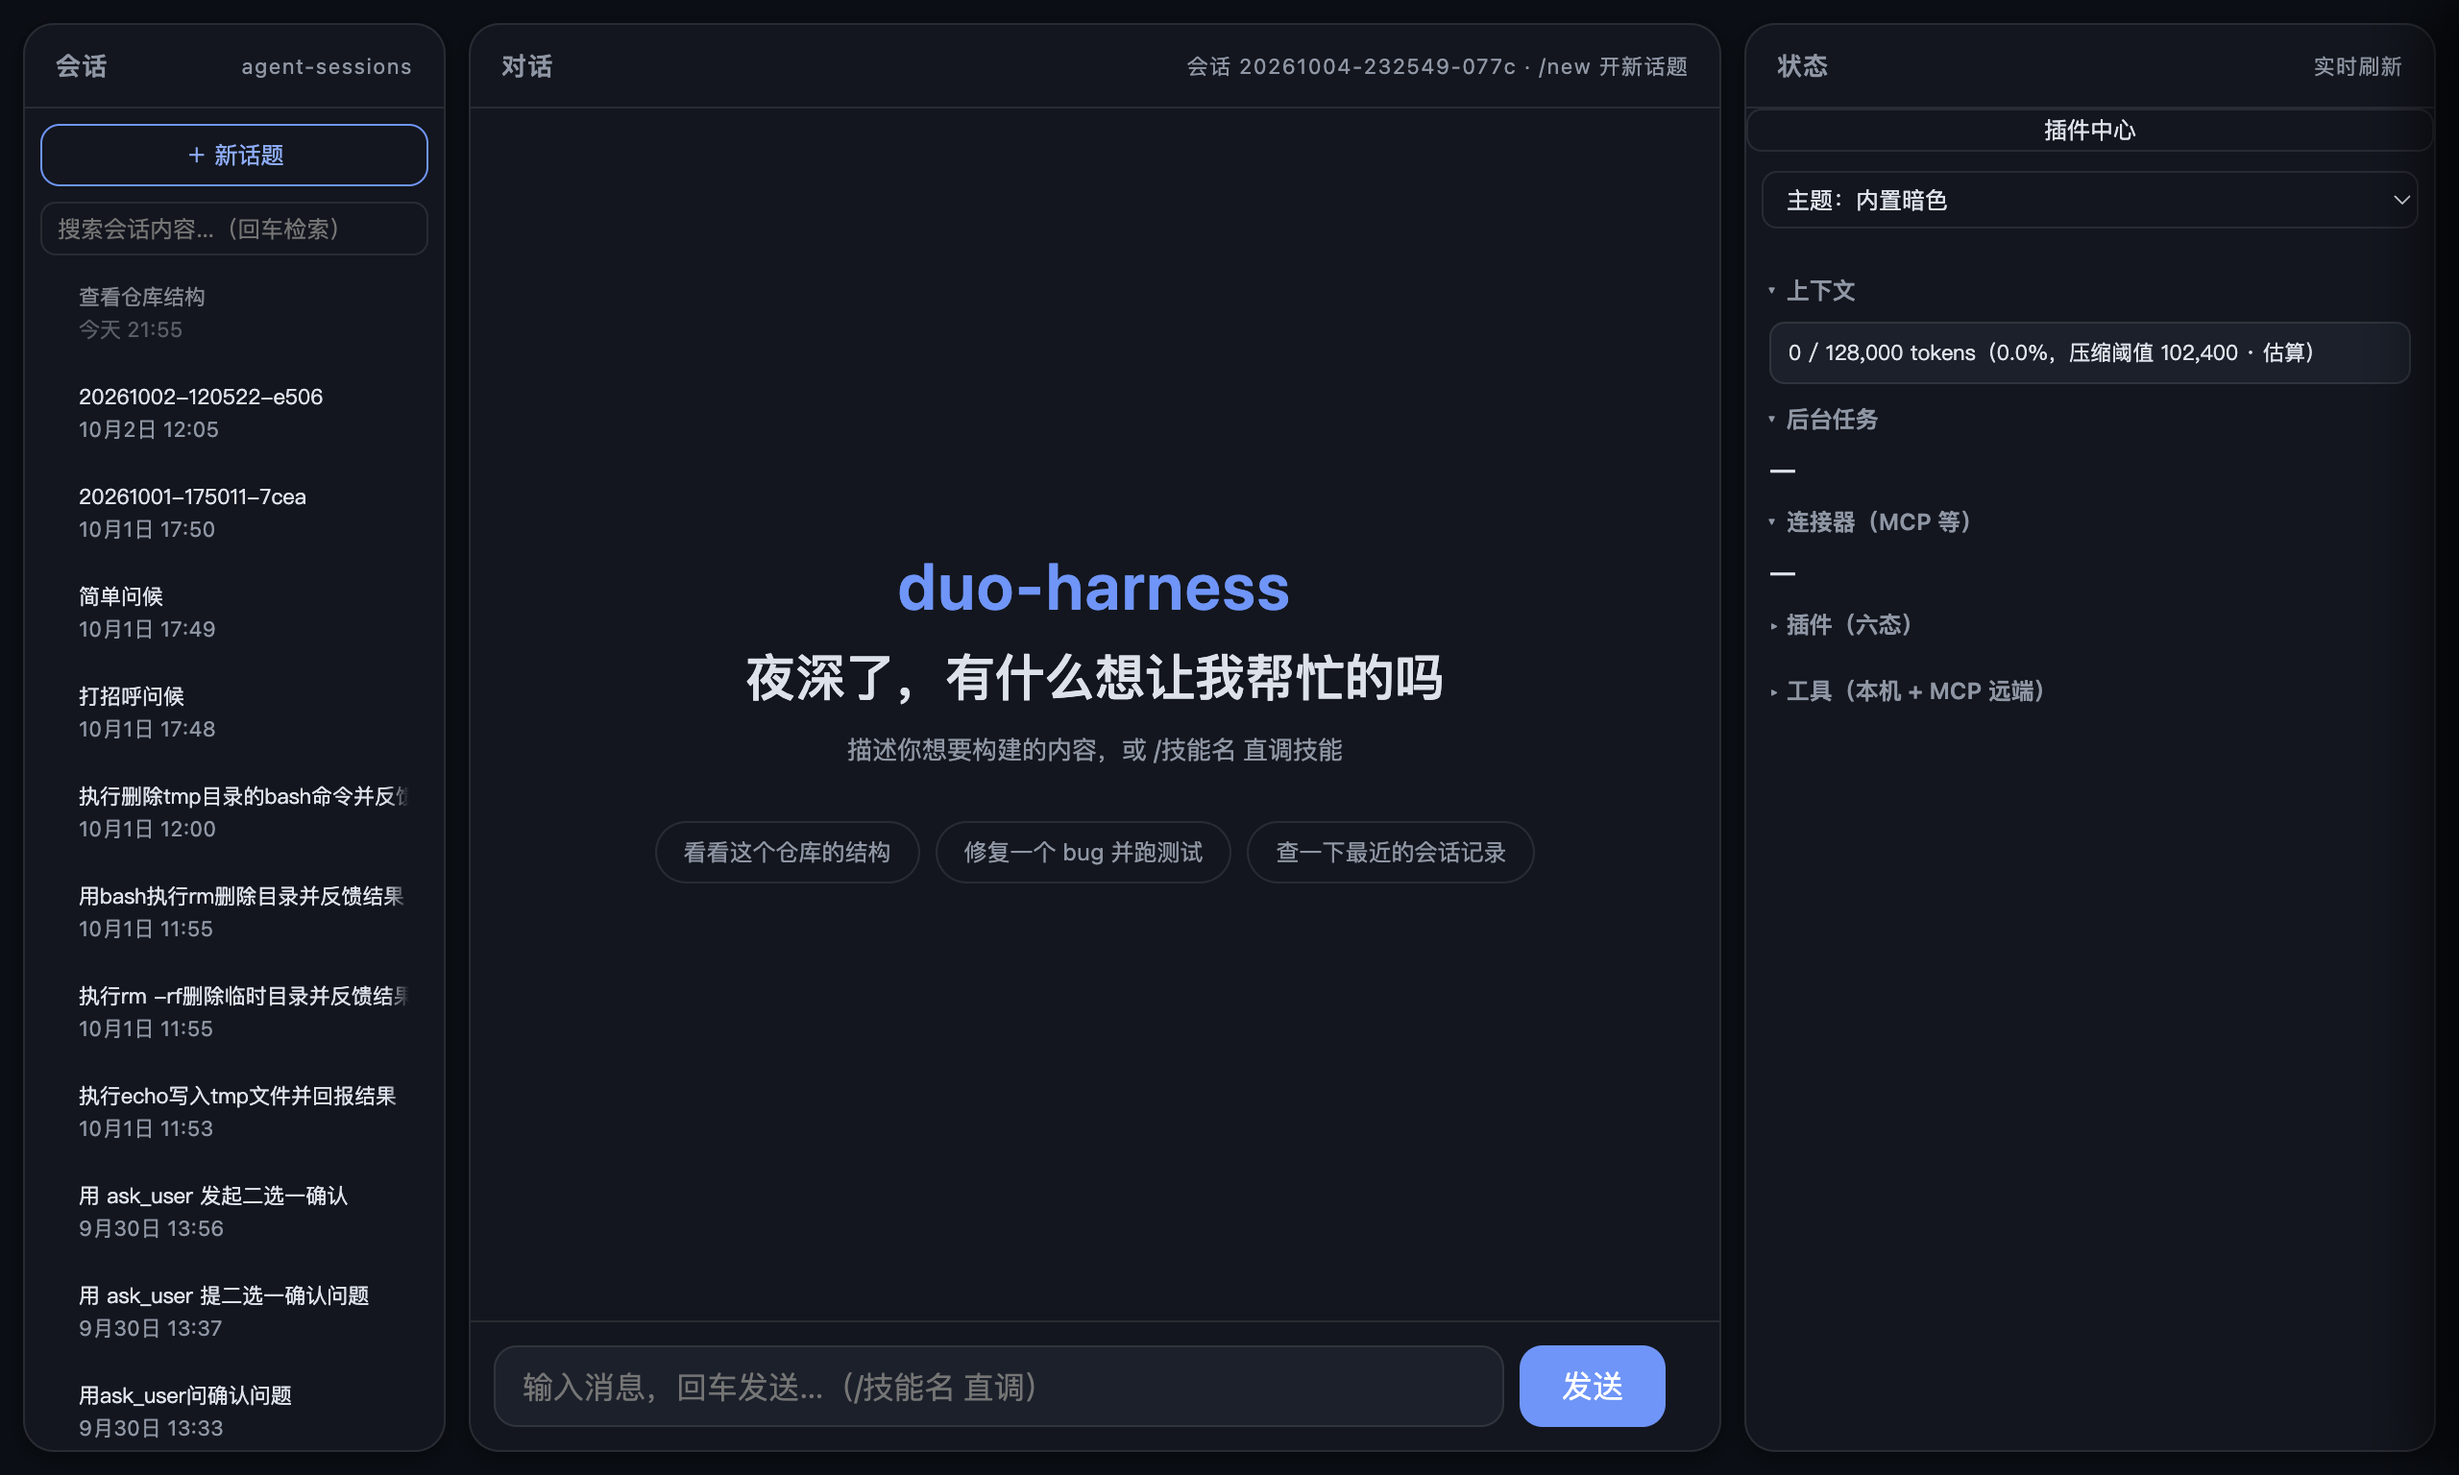
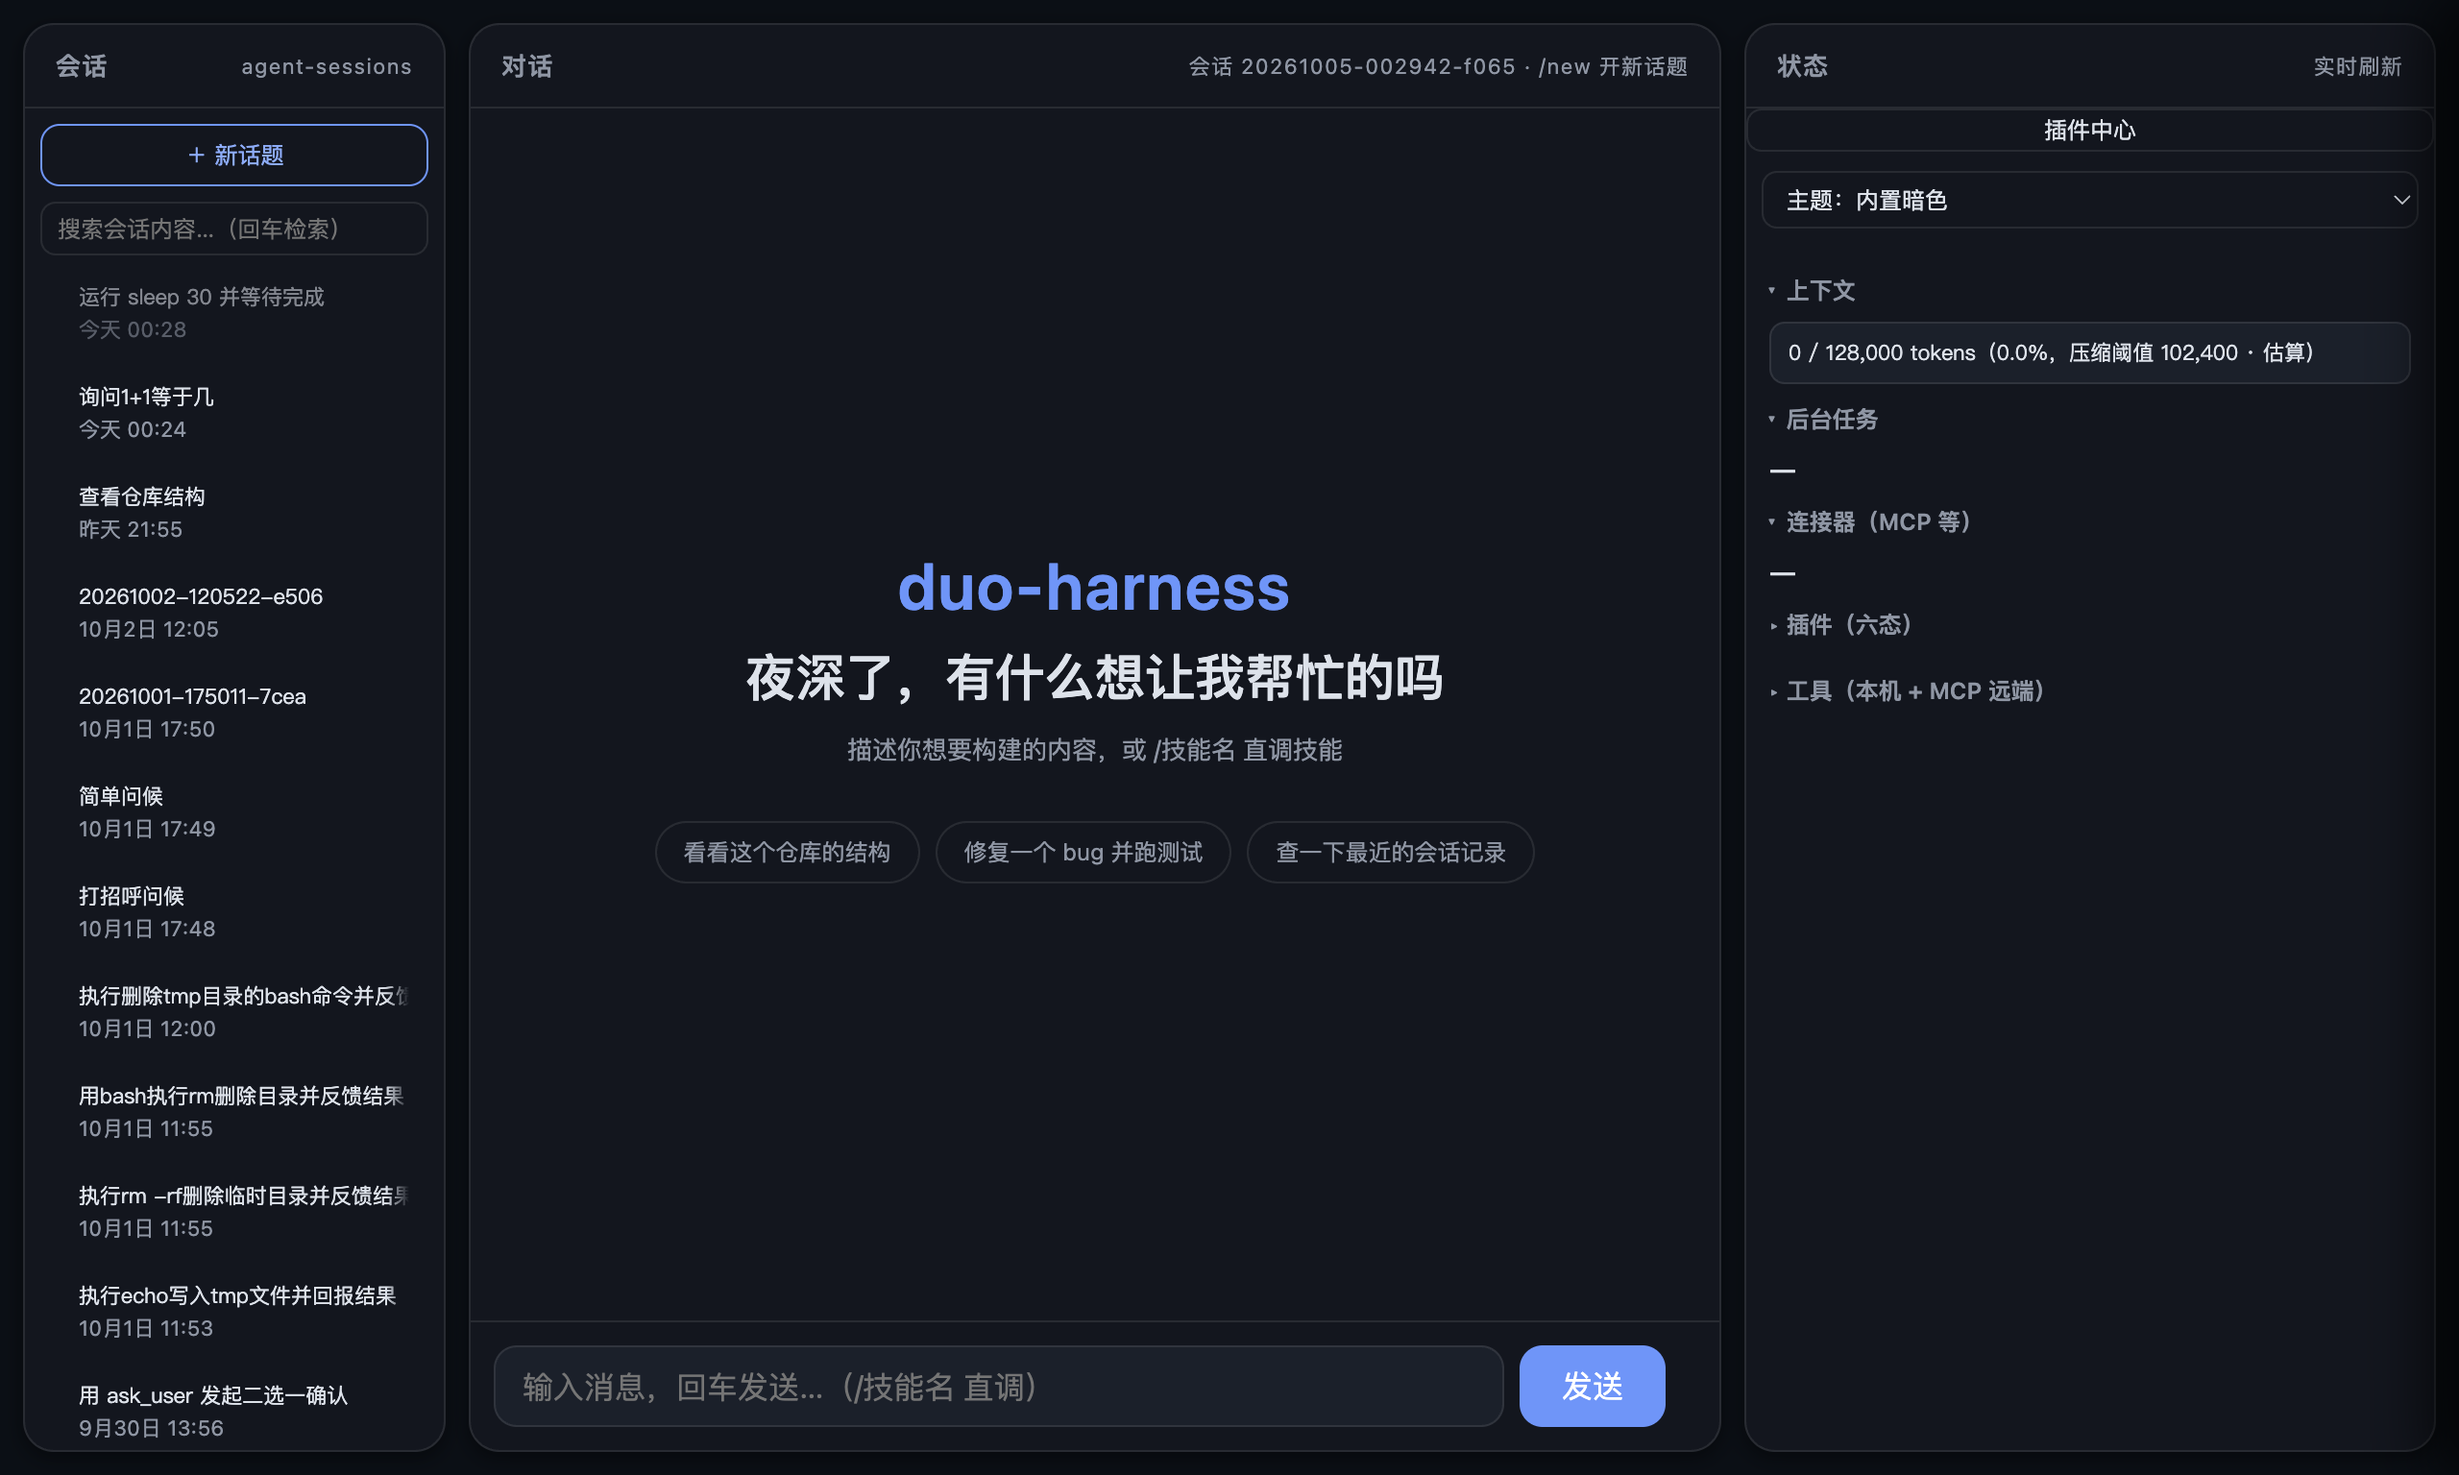
docs(m37-w08): 验收件补用户代测会话证据（T1 基线/T2 busy 在飞/T3 长任务拦截/T4 冒烟复跑）

diff --git a/desktop/src/main.ts b/desktop/src/main.ts
@@ -448,7 +448,9 @@ async function confirmAndQuit(): Promise<void> {
       if (!backend) {
         return false;
       }
-      return fetchTurnActive(buildStatusUrl(backend.url));
+      const busy = await fetchTurnActive(buildStatusUrl(backend.url));
+      console.log(`duo:shell quit-probe turnActive=${busy}`); // 退出编排决策留痕（T3 排障教训）
+      return busy;
     },
     confirmBusyQuit: () =>
       Promise.resolve(

diff --git a/.scratch/m37-desktop/acceptance.md b/.scratch/m37-desktop/acceptance.md
@@ -2,10 +2,16 @@
 
 > done 判据 = 用户手动运行本验收件确认通过（duo-acceptance 流程）。作者自跑证据在案（见「作者自跑记录」）；标 **[真人]** 的条目为 mac 交互面/LLM 依赖项，程序化不可达，需你亲手走。
 
-## 一、作者自跑证据（已留档，2026-10-04）
+## 一、作者自跑证据（已留档，2026-10-04 首跑 + 2026-10-05 用户代测会话）
 
 - **dev 态全链冒烟**（`npm run smoke`，15s 收口，断言硬失败即非零退出）：拉起 → 窗口加载（截图 [.scratch/m37-desktop/smoke-window.png](smoke-window.png)）→ 关窗拦截隐藏 → 托盘切换复原（复原图 [smoke-window-reopened.png](smoke-window-reopened.png)）→ 通知桥双态 + permission granted + 真通知发射 → 单实例二次启动即退 → `duo://open` 收达聚焦 → **外部 kill 后端 → 自动重启换址 → 原窗重连** → 无 java 孤儿
 - **打包态实证**：`CSC_IDENTITY_AUTO_DISCOVERY=false npx electron-builder --mac` 出 `out/mac-arm64/duo.app` + zip；`open duo.app` → **后端自包拉起**（`/usr/bin/java -jar .../duo.app/Contents/Resources/backend/duo-harness-1.2.0.jar` 实录，GUI 启动环境 login shell 探测过）；**未运行拉起**：退出后 `open duo://open` → Info.plist 协议拉起 duo.app（5 进程实录）；包内核验（jar/icns/Info.plist CFBundleURLTypes）全过
+- **用户代测会话（2026-10-05，受用户委托「你帮我测试一下」）**：
+  - T1 idle 基线：`turnActive=false` ✓
+  - T2 busy 实测：真 LLM turn（1+1）——密轮询 0.5s 抓到 **`turnActive=true` 在飞**、收口回落 false ✓（首轮 3s 粒度错过快速 turn 窗口属测试方法问题，密轮询解决）
+  - T3 长任务拦截：`sleep 30` bash 任务在飞（`turnActive=true` 4s 处实证）→ osascript Cmd-Q → **决策日志 `quit-probe turnActive=true` + 6s 后 electron/java 双存活**（对话框拦截生效、长任务未被误杀）✓——注：首次尝试用「数到15」流式过快、quit 时已收口判空闲直退（**正确行为**，等同 idle 直退；测试任务改 sleep 30 后成立）
+  - T4 全链冒烟复跑：0 失败、11 条断言/证据、无 java 孤儿 ✓
+  - 附注：T2/T3 测试消息会产生两个真实会话（1+1 / 数数），可在 Web 侧栏删除
 
 ## 二、端到端叙事 [真人]（spec User Story 16）
 
